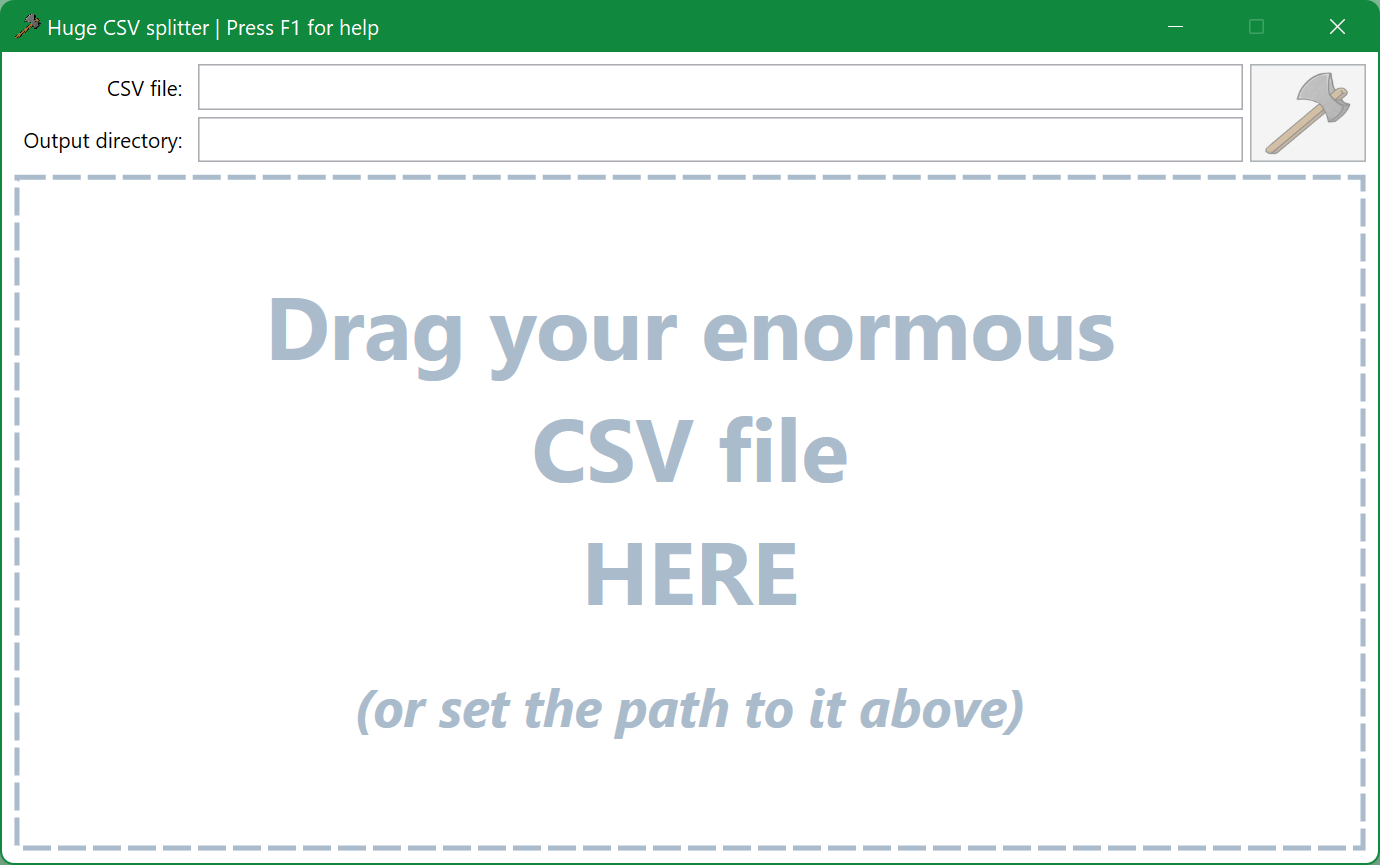
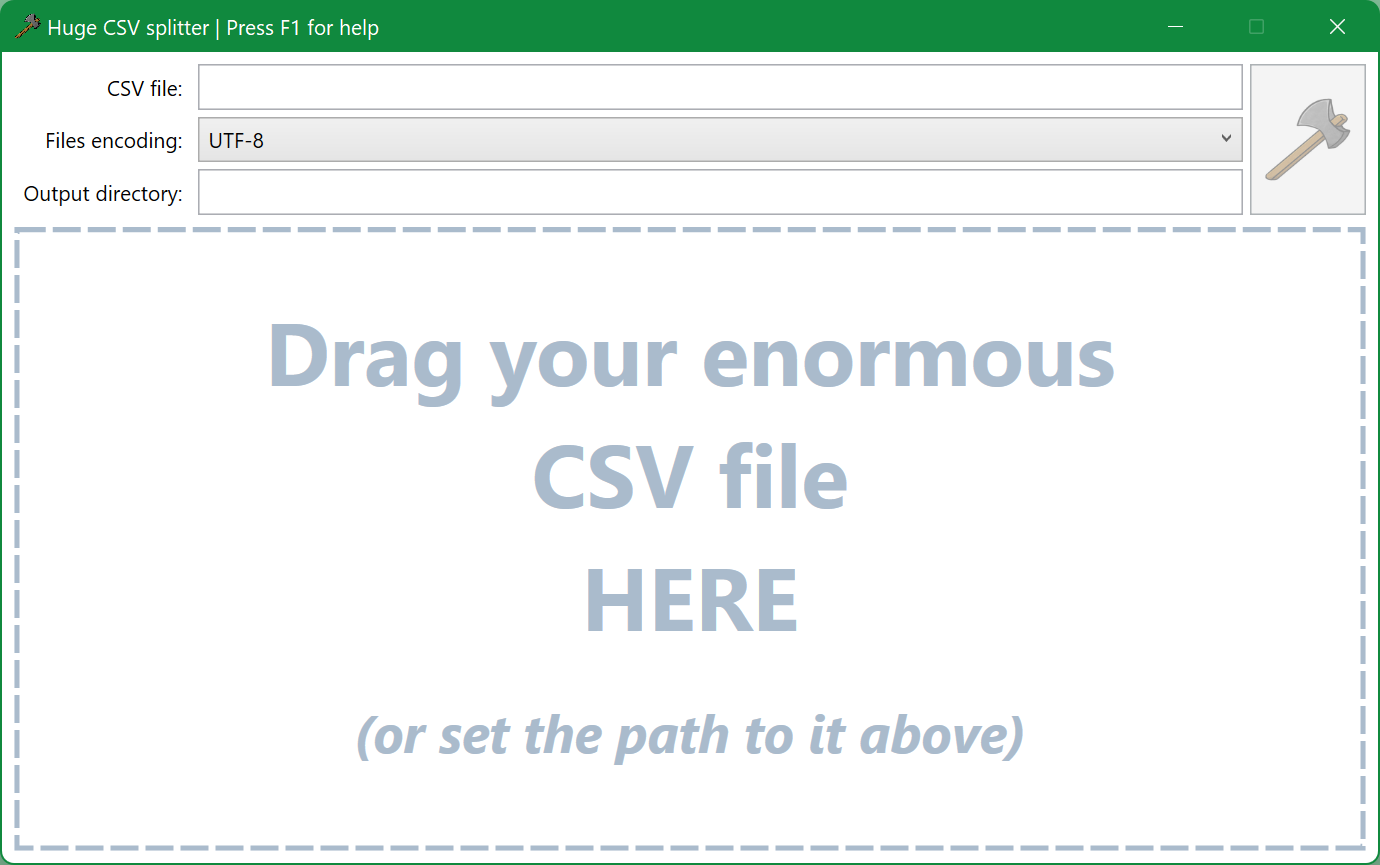
Bigger row-span for the buttons, updated screenshot

diff --git a/MainWindow.xaml b/MainWindow.xaml
@@ -40,7 +40,7 @@
                  ToolTip="Path to directory, where splitted parts will be saved. Leave this field blank, if you want to put them in the same directory as the source CSV file. Double-click to set the path."
                  MouseDoubleClick="outputDir_MouseDoubleClick" />
 
-        <Button Name="btn_spitDat" Grid.Row="0" Grid.RowSpan="2" Grid.Column="2" IsEnabled="False" Margin="2"
+        <Button Name="btn_spitDat" Grid.Row="0" Grid.RowSpan="3" Grid.Column="2" IsEnabled="False" Margin="2"
                 Click="btn_spitDat_Click" ToolTip="Split the file">
             <Image Source="reses/axe.png" Margin="5">
                 <Image.Style>
@@ -54,7 +54,7 @@
                 </Image.Style>
             </Image>
         </Button>
-        <Button Name="btn_stopDat" Grid.Row="0" Grid.RowSpan="2" Grid.Column="2" Visibility="Hidden" Margin="2"
+        <Button Name="btn_stopDat" Grid.Row="0" Grid.RowSpan="3" Grid.Column="2" Visibility="Hidden" Margin="2"
                 Click="btn_stopDat_Click" ToolTip="Stop the splitting">
             <Image Source="reses/stop.png" Margin="5" />
         </Button>
